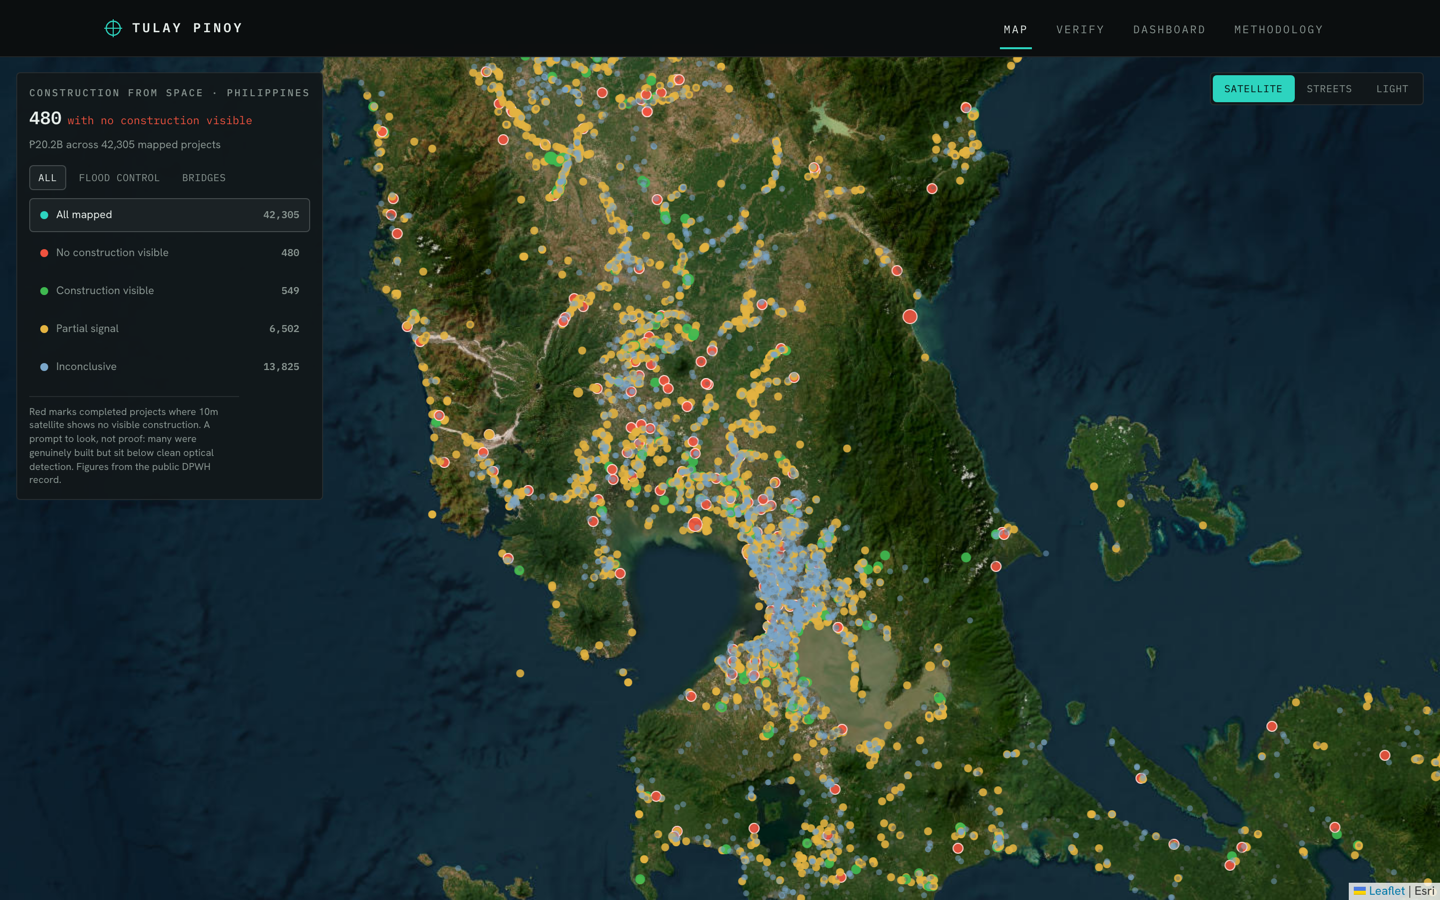
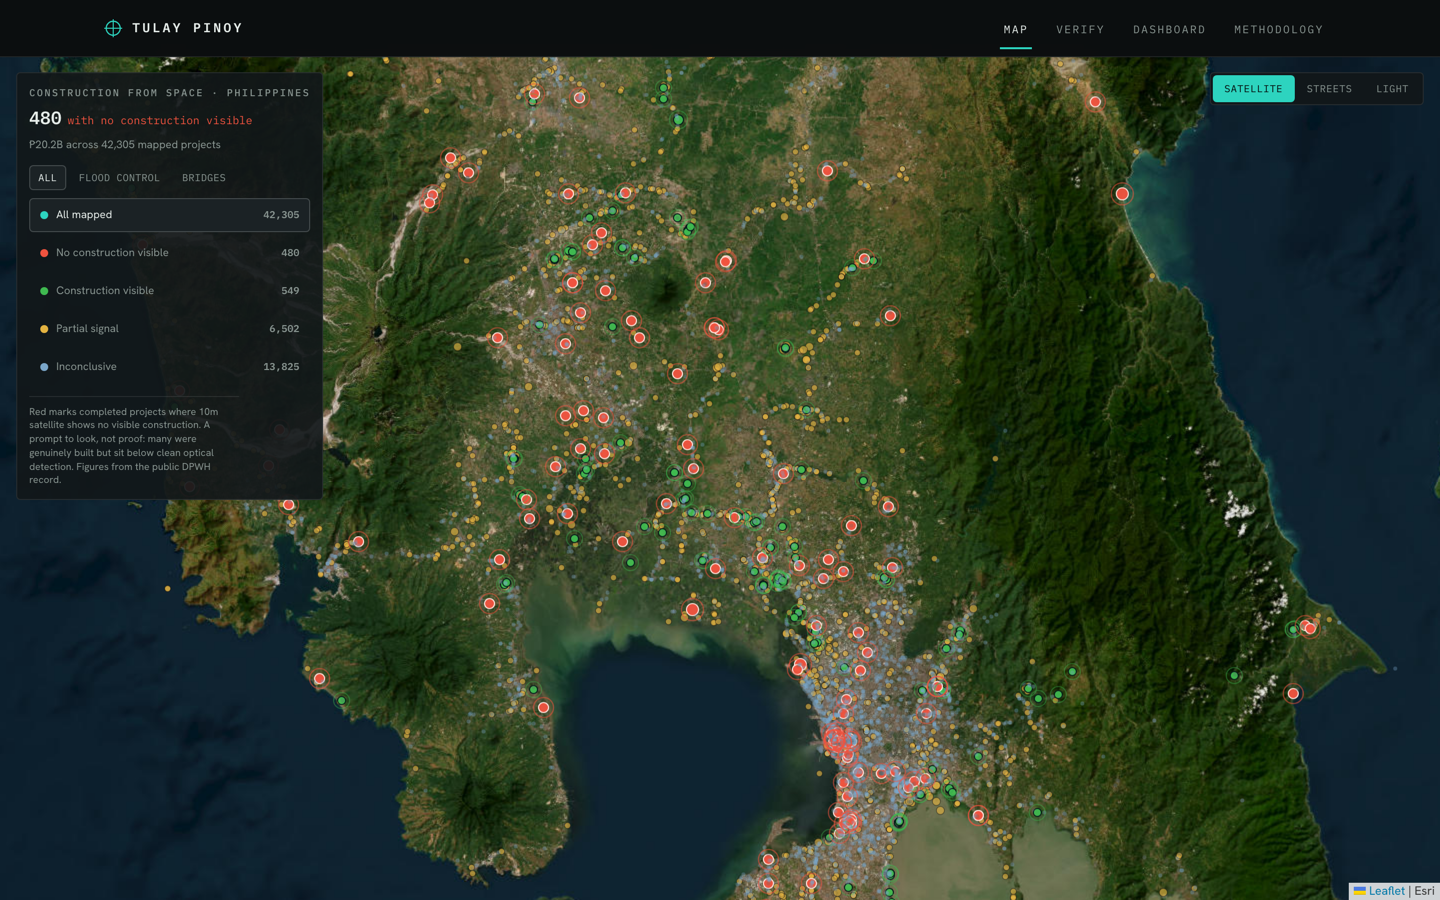
Enhance map markers: acquired-target rings + radar pings
The flat uniform dots let 6.5k amber "partial" markers drown the red
"no construction visible" finding. New treatment:
- red leads (largest core, light edge, concentric target ring) with a
  live radar ping on the biggest flagged sites in view
- green "construction visible" gets a target ring; amber held quiet;
  steel and grey recede into a faint field
- zoom-responsive: compact dots at country zoom, full target rings and
  pings reveal once you zoom into a locale, so 480 reds never blob

Also re-record the demo GIF to contrast a project where construction is
visible from space against one where it is not, and refresh the map
screenshot.

diff --git a/web/src/components/map/ProjectMap.tsx b/web/src/components/map/ProjectMap.tsx
@@ -1,8 +1,8 @@
 "use client";
 
 import { useEffect, useState, useMemo } from "react";
-import { MapContainer, TileLayer, CircleMarker, useMapEvents } from "react-leaflet";
-import type { LatLngBounds } from "leaflet";
+import { MapContainer, TileLayer, CircleMarker, Marker, useMapEvents } from "react-leaflet";
+import L, { type LatLngBounds, type PathOptions } from "leaflet";
 import { MapPin, Building2, Calendar, Banknote, Loader2, TriangleAlert, SatelliteDish, X, Crosshair } from "lucide-react";
 import {
   MAP_CENTER,
@@ -42,34 +42,73 @@ const CATEGORY_FILTERS: { label: string; value: string }[] = [
 // inconclusive + not-assessed backdrop is capped to the current viewport.
 const HIGHLIGHT = new Set(["NOT_VISIBLE", "VERIFIED", "PARTIAL"]);
 const CONTEXT_CAP = 5000;
+const MAX_PINGS = 14; // animated DOM rings only on the largest flagged sites in view
 
-function tierRadius(status: string, amount: number | null): number {
+const RED = VERIFICATION_COLORS.NOT_VISIBLE; // #f0533f
+const GREEN = VERIFICATION_COLORS.VERIFIED; // #3fb950
+const AMBER = VERIFICATION_COLORS.PARTIAL; // #e3b341
+const STEEL = VERIFICATION_COLORS.INCONCLUSIVE; // #7aa6c9
+
+// Detail kicks in once you zoom into a locale: target rings + radar pings appear
+// and markers grow. At country zoom they stay compact so 480 reds don't overlap
+// into solid blobs that over-state a 2.2% rate.
+const DETAIL_ZOOM = 9;
+
+// Markers shrink at country zoom (dense) and grow into full targets up close.
+function zoomScale(zoom: number): number {
+  if (zoom >= 12) return 1.05;
+  if (zoom >= 11) return 1;
+  if (zoom >= 10) return 0.9;
+  if (zoom >= DETAIL_ZOOM) return 0.8;
+  if (zoom >= 8) return 0.7;
+  if (zoom >= 7) return 0.62;
+  return 0.55;
+}
+
+// Marker scale. The red "no construction visible" finding reads largest; amber
+// "partial" is held deliberately small so 6.5k partial dots don't drown the
+// ~480 red and ~550 green verdicts that are the actual story.
+function coreRadius(status: string, amount: number | null, zoom: number): number {
   const a = amount ?? 0;
-  if (status === "NOT_VISIBLE") return a >= 1e9 ? 8 : a >= 1e8 ? 6.5 : 5;
-  if (status === "VERIFIED") return a >= 1e8 ? 6 : 4.5;
-  if (status === "PARTIAL") return a >= 1e8 ? 5 : 4;
-  if (status === "INCONCLUSIVE") return 2.6;
-  return 2;
+  const k = zoomScale(zoom);
+  let base: number;
+  if (status === "NOT_VISIBLE") base = a >= 1e9 ? 9 : a >= 1e8 ? 7 : 5.5;
+  else if (status === "VERIFIED") base = a >= 1e8 ? 6 : 4.5;
+  else if (status === "PARTIAL") base = a >= 1e8 ? 4.5 : 3.5;
+  else if (status === "INCONCLUSIVE") base = 2.6;
+  else base = 2;
+  return Math.max(1.3, base * k);
 }
 
-function tierStyle(status: string) {
-  const c = VERIFICATION_COLORS[status] ?? "#5a6663";
-  if (status === "NOT_VISIBLE")
-    return { color: "#ffd9d2", weight: 1, fillColor: c, fillOpacity: 0.9 };
-  if (status === "VERIFIED") return { color: "transparent", weight: 0, fillColor: c, fillOpacity: 0.92 };
-  if (status === "PARTIAL") return { color: "transparent", weight: 0, fillColor: c, fillOpacity: 0.88 };
-  if (status === "INCONCLUSIVE") return { color: "transparent", weight: 0, fillColor: c, fillOpacity: 0.5 };
-  return { color: "transparent", weight: 0, fillColor: "#5a6663", fillOpacity: 0.4 };
+// A concentric ring sits behind the two lead verdicts — the "acquired target" look.
+function haloRadius(status: string, amount: number | null, zoom: number): number {
+  return coreRadius(status, amount, zoom) + (status === "NOT_VISIBLE" ? 5 : 3.5);
 }
+
+// Filled cores. Light edge on red / dark edge on green+amber for crispness on
+// busy satellite imagery; steel + grey recede into a faint context field.
+const CORE_STYLE: Record<string, PathOptions> = {
+  NOT_VISIBLE: { color: "#ffe2db", weight: 1.1, fillColor: RED, fillOpacity: 0.96 },
+  VERIFIED: { color: "#06181a", weight: 1, fillColor: GREEN, fillOpacity: 0.95 },
+  PARTIAL: { color: "rgba(11,14,15,0.5)", weight: 0.75, fillColor: AMBER, fillOpacity: 0.64 },
+  INCONCLUSIVE: { color: "transparent", weight: 0, fillColor: STEEL, fillOpacity: 0.34 },
+  UNVERIFIED: { color: "transparent", weight: 0, fillColor: "#5a6663", fillOpacity: 0.26 },
+};
+
+// Stroke-only target rings (no fill, non-interactive so the core handles clicks).
+const HALO_STYLE: Record<string, PathOptions> = {
+  NOT_VISIBLE: { color: RED, weight: 1.3, fill: false, opacity: 0.55, interactive: false },
+  VERIFIED: { color: GREEN, weight: 1.1, fill: false, opacity: 0.42, interactive: false },
+};
 
 // Reports the current viewport bounds so the context layer can cull to it.
-function BoundsWatcher({ onChange }: { onChange: (b: LatLngBounds) => void }) {
+function BoundsWatcher({ onChange }: { onChange: (b: LatLngBounds, z: number) => void }) {
   const map = useMapEvents({
-    moveend: () => onChange(map.getBounds()),
-    zoomend: () => onChange(map.getBounds()),
+    moveend: () => onChange(map.getBounds(), map.getZoom()),
+    zoomend: () => onChange(map.getBounds(), map.getZoom()),
   });
   useEffect(() => {
-    onChange(map.getBounds());
+    onChange(map.getBounds(), map.getZoom());
     // eslint-disable-next-line react-hooks/exhaustive-deps
   }, []);
   return null;
@@ -87,6 +126,7 @@ export default function ProjectMap() {
   const [waybackReleases, setWaybackReleases] = useState<WaybackRelease[]>([]);
   const [selected, setSelected] = useState<Project | null>(null);
   const [bounds, setBounds] = useState<LatLngBounds | null>(null);
+  const [zoom, setZoom] = useState(MAP_ZOOM);
 
   useEffect(() => {
     setLoading(true);
@@ -158,6 +198,31 @@ export default function ProjectMap() {
     return inView.slice(0, CONTEXT_CAP);
   }, [filtered, bounds]);
 
+  // Lead verdicts split out so they layer back-to-front: amber under green under
+  // red, each with its ring beneath its core.
+  const partial = useMemo(() => highlight.filter((p) => p.verification_status === "PARTIAL"), [highlight]);
+  const verified = useMemo(() => highlight.filter((p) => p.verification_status === "VERIFIED"), [highlight]);
+  const notVisible = useMemo(() => highlight.filter((p) => p.verification_status === "NOT_VISIBLE"), [highlight]);
+
+  // Live radar ping on the biggest flagged sites currently in view — a few moving
+  // rings read as a sensor acquiring targets without animating all ~480 reds.
+  const detailed = zoom >= DETAIL_ZOOM;
+  const redPings = useMemo(() => {
+    if (!detailed) return [];
+    const inView = bounds ? notVisible.filter((p) => bounds.contains([p.lat, p.lng])) : notVisible;
+    return [...inView].sort((a, b) => (b.contract_amount ?? 0) - (a.contract_amount ?? 0)).slice(0, MAX_PINGS);
+  }, [notVisible, bounds, detailed]);
+
+  const pingIcon = useMemo(
+    () =>
+      L.divIcon({
+        className: "gw-ping-wrap",
+        html: `<span class="gw-ping" style="--c:${RED}"></span>`,
+        iconSize: [0, 0],
+      }),
+    [],
+  );
+
   const tile = TILE_LAYERS[mapStyle];
 
   return (
@@ -171,35 +236,85 @@ export default function ProjectMap() {
         preferCanvas={true}
       >
         <TileLayer url={tile.url} attribution={tile.attribution} />
-        <BoundsWatcher onChange={setBounds} />
+        <BoundsWatcher
+          onChange={(b, z) => {
+            setBounds(b);
+            setZoom(z);
+          }}
+        />
 
-        {/* Faint backdrop: inconclusive + not-assessed, culled to viewport */}
-        {context.map((p) => {
-          const s = tierStyle(p.verification_status);
-          return (
-            <CircleMarker
-              key={p.id}
-              center={[p.lat, p.lng]}
-              radius={tierRadius(p.verification_status, p.contract_amount)}
-              pathOptions={s}
-              eventHandlers={{ click: () => setSelected(p) }}
-            />
-          );
-        })}
+        {/* Faint context field: inconclusive + not-assessed, culled to viewport */}
+        {context.map((p) => (
+          <CircleMarker
+            key={p.id}
+            center={[p.lat, p.lng]}
+            radius={coreRadius(p.verification_status, p.contract_amount, zoom)}
+            pathOptions={CORE_STYLE[p.verification_status] ?? CORE_STYLE.UNVERIFIED}
+            eventHandlers={{ click: () => setSelected(p) }}
+          />
+        ))}
 
-        {/* Verdicts: red flagged, green confirmed, amber partial — always on top */}
-        {highlight.map((p) => {
-          const s = tierStyle(p.verification_status);
-          return (
+        {/* Partial — quiet amber cores, held low so the red/green verdicts lead */}
+        {partial.map((p) => (
+          <CircleMarker
+            key={p.id}
+            center={[p.lat, p.lng]}
+            radius={coreRadius("PARTIAL", p.contract_amount, zoom)}
+            pathOptions={CORE_STYLE.PARTIAL}
+            eventHandlers={{ click: () => setSelected(p) }}
+          />
+        ))}
+
+        {/* Construction visible (green): target ring (up close) then crisp core */}
+        {detailed &&
+          verified.map((p) => (
             <CircleMarker
-              key={p.id}
+              key={`gh-${p.id}`}
               center={[p.lat, p.lng]}
-              radius={tierRadius(p.verification_status, p.contract_amount)}
-              pathOptions={s}
-              eventHandlers={{ click: () => setSelected(p) }}
+              radius={haloRadius("VERIFIED", p.contract_amount, zoom)}
+              pathOptions={HALO_STYLE.VERIFIED}
             />
-          );
-        })}
+          ))}
+        {verified.map((p) => (
+          <CircleMarker
+            key={`gc-${p.id}`}
+            center={[p.lat, p.lng]}
+            radius={coreRadius("VERIFIED", p.contract_amount, zoom)}
+            pathOptions={CORE_STYLE.VERIFIED}
+            eventHandlers={{ click: () => setSelected(p) }}
+          />
+        ))}
+
+        {/* No construction visible (red) — the finding: ring (up close) + bright core, on top */}
+        {detailed &&
+          notVisible.map((p) => (
+            <CircleMarker
+              key={`rh-${p.id}`}
+              center={[p.lat, p.lng]}
+              radius={haloRadius("NOT_VISIBLE", p.contract_amount, zoom)}
+              pathOptions={HALO_STYLE.NOT_VISIBLE}
+            />
+          ))}
+        {notVisible.map((p) => (
+          <CircleMarker
+            key={`rc-${p.id}`}
+            center={[p.lat, p.lng]}
+            radius={coreRadius("NOT_VISIBLE", p.contract_amount, zoom)}
+            pathOptions={CORE_STYLE.NOT_VISIBLE}
+            eventHandlers={{ click: () => setSelected(p) }}
+          />
+        ))}
+
+        {/* Live sensor ping on the largest flagged sites in view */}
+        {redPings.map((p) => (
+          <Marker
+            key={`ping-${p.id}`}
+            position={[p.lat, p.lng]}
+            icon={pingIcon}
+            interactive={false}
+            keyboard={false}
+          />
+        ))}
       </MapContainer>
 
       {/* Map title + counts (top-left) */}

diff --git a/web/src/app/globals.css b/web/src/app/globals.css
@@ -296,6 +296,28 @@ input:focus-visible {
   100% { transform: scale(2.8); opacity: 0; }
 }
 
+/* Live radar ping on the largest flagged sites in view (capped count) */
+.leaflet-div-icon.gw-ping-wrap {
+  background: transparent;
+  border: none;
+}
+.gw-ping {
+  position: absolute;
+  left: 0;
+  top: 0;
+  width: 30px;
+  height: 30px;
+  margin: -15px 0 0 -15px;
+  border-radius: 50%;
+  border: 1.5px solid var(--c);
+  opacity: 0;
+  pointer-events: none;
+  animation: gwPing 2.8s cubic-bezier(0.22, 1, 0.36, 1) infinite;
+}
+@media (prefers-reduced-motion: reduce) {
+  .gw-ping { animation: none; opacity: 0; }
+}
+
 /* Scrollbar */
 ::-webkit-scrollbar { width: 8px; height: 8px; }
 ::-webkit-scrollbar-track { background: transparent; }